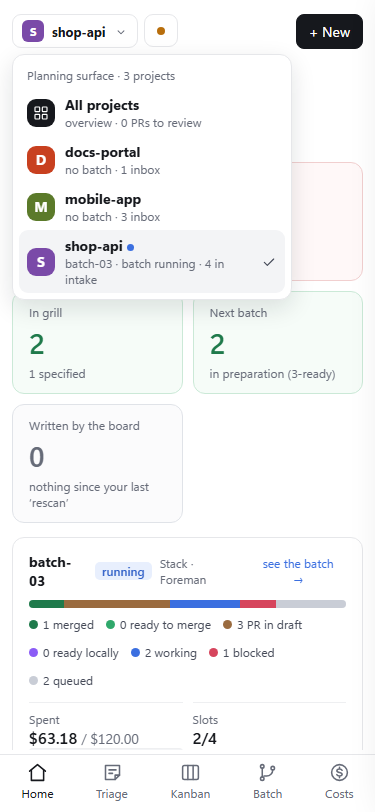
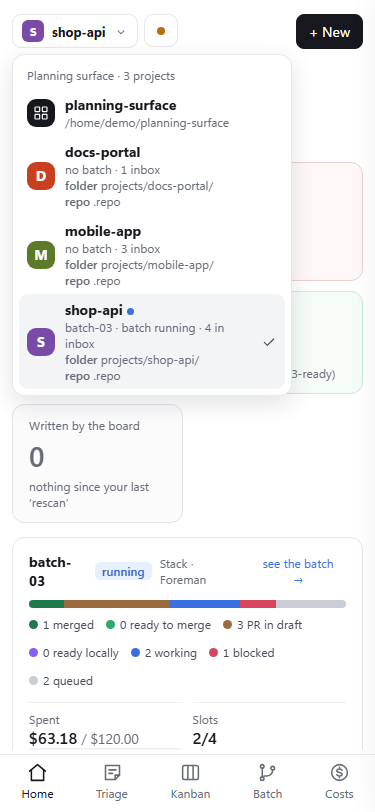
feat(board): show the planning surface in the selector and each project's folder and repository

diff --git a/skills/chantier/scripts/cli/src/chantier/board/web/js/ui/picker.js b/skills/chantier/scripts/cli/src/chantier/board/web/js/ui/picker.js
@@ -1,5 +1,5 @@
 // The project picker: the button that names the project shown, and the menu it opens. The menu
-// lists "All projects" first, then each project of the planning surface.
+// lists the planning surface first (its name and path), then each project of it.
 import { html } from '../core/dom.js';
 import { ALL } from '../core/router.js';
 import { t } from '../model/words.js';
@@ -13,7 +13,19 @@ export const canPick = (state) => projectsOf(state).length > 1;
 
 export const current = (state) => projectsOf(state).find((p) => p.id === state.project) ?? null;
 
-const totalReviews = (projects) => projects.reduce((n, p) => n + p.to_review.length, 0);
+// The surface the board serves: its path, and its name (the root folder's name).
+export const surfacePath = (state) => state.board?.served ?? '';
+export const surfaceName = (state) => {
+  const path = surfacePath(state).replace(/\/+$/, '');
+  return path.slice(path.lastIndexOf('/') + 1) || path || '…';
+};
+
+// A project's two paths, each labelled: its folder in the surface, and its repository as
+// `checkout.yml` writes it. A path too long is cut by the CSS and shown whole on hover.
+export const pathsOf = (project) =>
+  project.folder === undefined
+    ? ''
+    : html`<span class="pth" title="${project.folder}"><i>${t('project.folder')}</i> ${project.folder}</span><span class="pth" title="${project.repo}"><i>${t('project.repo')}</i> ${project.repo}</span>`;
 
 // A project's line: its batch and state, and how many items wait in its intake.
 export function lineOf(project) {
@@ -26,15 +38,13 @@ export function lineOf(project) {
 export function trigger(state, cls) {
   const all = state.project === ALL;
   const project = current(state);
-  const name = all ? t('project.all') : (project?.id ?? '…');
+  const name = all ? surfaceName(state) : (project?.id ?? '…');
   const sub = all
-    ? t('project.all_sub', { n: totalReviews(projectsOf(state)) })
-    : project
-      ? lineOf(project)
-      : '';
+    ? html`<small class="pth sur" title="${surfacePath(state)}">${surfacePath(state)}</small><small class="sur">${t('project.head', { n: projectsOf(state).length })}</small>`
+    : html`<small>${project ? lineOf(project) : ''}</small>`;
   const caret = canPick(state) ? html`<span class="car">${icon('chev')}</span>` : '';
   const face = all ? html`<span class="mark all">${icon('overview')}</span>` : mark(name);
-  const body = html`${face}<span><b>${name}</b><small>${sub}</small></span>${caret}`;
+  const body = html`${face}<span class="who"><b>${name}</b>${sub}</span>${caret}`;
   if (!canPick(state)) return html`<div class="${cls}">${body}</div>`;
   return html`<button class="${cls}" type="button" data-menu="toggle" data-key="${cls}-picker" aria-haspopup="true" aria-expanded="${state.menu}" title="${t('project.change')}">${body}</button>`;
 }
@@ -43,12 +53,12 @@ export function trigger(state, cls) {
 const ok = () => html`<span class="ok">${icon('check')}</span>`;
 
 const row = (project, state) =>
-  html`<button class="row${project.id === state.project ? ' on' : ''}" type="button" data-project="${project.id}" role="menuitem">${mark(project.id)}<span><b>${project.id}</b>${project.running ? live() : ''}<small>${lineOf(project)}</small></span>${project.id === state.project ? ok() : ''}</button>`;
+  html`<button class="row${project.id === state.project ? ' on' : ''}" type="button" data-project="${project.id}" role="menuitem">${mark(project.id)}<span class="who"><b>${project.id}</b>${project.running ? live() : ''}<small>${lineOf(project)}</small>${pathsOf(project)}</span>${project.id === state.project ? ok() : ''}</button>`;
 
 // The open menu, or nothing.
 export function menu(state) {
   if (!state.menu || !canPick(state)) return '';
   const projects = projectsOf(state);
-  const all = html`<button class="row${state.project === ALL ? ' on' : ''}" type="button" data-project="${ALL}" role="menuitem"><span class="mark all">${icon('overview')}</span><span><b>${t('project.all')}</b><small>${t('project.all_sub', { n: totalReviews(projects) })}</small></span>${state.project === ALL ? ok() : ''}</button>`;
+  const all = html`<button class="row${state.project === ALL ? ' on' : ''}" type="button" data-project="${ALL}" role="menuitem"><span class="mark all">${icon('overview')}</span><span class="who"><b>${surfaceName(state)}</b><small class="pth" title="${surfacePath(state)}">${surfacePath(state)}</small></span>${state.project === ALL ? ok() : ''}</button>`;
   return html`<div class="menu" role="menu"><div class="cap">${t('project.head', { n: projects.length })}</div>${all}${projects.map((p) => row(p, state))}</div>`;
 }

diff --git a/skills/chantier/scripts/cli/src/chantier/board/web/js/views/overview.js b/skills/chantier/scripts/cli/src/chantier/board/web/js/views/overview.js
@@ -1,4 +1,4 @@
-// The Overview view (All projects): one line per project of the planning surface, a table on a
+// The Overview view (the surface): one line per project of the planning surface, a table on a
 // desktop and cards on a phone. A click on a line opens the project; a CR link opens its PR only.
 //   render(state) returns the view's markup; mount(root, state) returns a cleanup.
 
@@ -6,7 +6,7 @@ import { delegate, html } from '../core/dom.js';
 import { age, safeUrl, usd } from '../core/format.js';
 import { t } from '../model/words.js';
 import { empty, live, mark, meter } from '../ui/parts.js';
-import { projectsOf } from '../ui/picker.js';
+import { pathsOf, projectsOf } from '../ui/picker.js';
 
 const none = '—';
 
@@ -43,7 +43,7 @@ const dataOf = (p, now) => {
 };
 
 const row = (p, now) =>
-  html`<tr data-project="${p.id}" tabindex="0" data-key="row-${p.id}"><td class="who">${mark(p.id)}<b>${p.id}</b>${p.running ? live() : ''}</td><td>${batchOf(p)}</td><td class="num">${workingOf(p)}</td><td>${p.to_review.length ? p.to_review.map(prLink) : none}</td><td>${progressOf(p)}</td><td class="num">${spentOf(p)}</td><td class="num">${p.inbox} · ${p.backlog}</td><td class="mut">${dataOf(p, now)}</td></tr>`;
+  html`<tr data-project="${p.id}" tabindex="0" data-key="row-${p.id}"><td class="who">${mark(p.id)}<div class="wtx"><div class="wnm"><b>${p.id}</b>${p.running ? live() : ''}</div>${pathsOf(p)}</div></td><td>${batchOf(p)}</td><td class="num">${workingOf(p)}</td><td>${p.to_review.length ? p.to_review.map(prLink) : none}</td><td>${progressOf(p)}</td><td class="num">${spentOf(p)}</td><td class="num">${p.inbox} · ${p.backlog}</td><td class="mut">${dataOf(p, now)}</td></tr>`;
 
 const head = ['project', 'batch', 'working', 'review', 'progress', 'spent', 'intake', 'data'].map(
   (k) =>
@@ -67,7 +67,7 @@ const sums = (p) => [
 ];
 
 const card = (p) =>
-  html`<div class="apc ${tintOf(p)}" data-project="${p.id}" tabindex="0" data-key="card-${p.id}"><div class="apt">${mark(p.id)}<b>${p.id}</b>${p.running ? live() : ''}<span class="mut">${p.batch ? p.batch.id : t('project.no_batch')}</span></div><div class="aps">${sums(p).map((s) => html`<span>${s}</span>`)}</div></div>`;
+  html`<div class="apc ${tintOf(p)}" data-project="${p.id}" tabindex="0" data-key="card-${p.id}"><div class="apt">${mark(p.id)}<b>${p.id}</b>${p.running ? live() : ''}<span class="mut">${p.batch ? p.batch.id : t('project.no_batch')}</span></div><div class="apth">${pathsOf(p)}</div><div class="aps">${sums(p).map((s) => html`<span>${s}</span>`)}</div></div>`;
 
 export function render(state) {
   const projects = projectsOf(state);

diff --git a/skills/chantier/scripts/cli/src/chantier/board/web/js/ui/header.js b/skills/chantier/scripts/cli/src/chantier/board/web/js/ui/header.js
@@ -4,12 +4,12 @@ import { ALL } from '../core/router.js';
 import { grillItems, handedCrs, inboxItems, progressCrs } from '../model/columns.js';
 import { t, tn } from '../model/words.js';
 import { entry } from '../views/registry.js';
-import { projectsOf } from './picker.js';
+import { projectsOf, surfaceName } from './picker.js';
 
 const figure = (n, word) => html`<span><b>${n}</b> ${t(word)}</span>`;
 const counted = (n, word) => html`<span><b>${n}</b> ${tn(word, n)}</span>`;
 
-// The figures of the whole surface, on All projects.
+// The figures of the whole surface, on the overview.
 function overall(state) {
   const projects = projectsOf(state);
   const sum = (pick) => projects.reduce((n, p) => n + pick(p), 0);
@@ -51,6 +51,7 @@ export function stats(state) {
   return state.data ? of(state.data) : t('stats.loading');
 }
 
-export const title = (state) => t(state.project === ALL ? 'nav.overview' : entry(state.view).word);
+export const title = (state) =>
+  state.project === ALL ? surfaceName(state) : t(entry(state.view).word);
 
 export const notice = (state) => (state.denied ? t('notice.key') : '');

diff --git a/skills/chantier/scripts/cli/src/chantier/board/web/css/paths.css b/skills/chantier/scripts/cli/src/chantier/board/web/css/paths.css
@@ -1,0 +1,48 @@
+/* The picker's text and the paths of a project's line: they shrink, and a path too long for its place is cut with an ellipsis. */
+.ws .who,
+.menu .who {
+  flex: 1;
+  min-width: 0;
+}
+
+.ws .who > *,
+.menu .who > b {
+  overflow: hidden;
+  text-overflow: ellipsis;
+  white-space: nowrap;
+}
+
+.ws .mark,
+.menu .mark {
+  flex: none;
+}
+
+.pth {
+  display: block;
+  overflow: hidden;
+  color: var(--ink3);
+  font-size: var(--text-small);
+  font-weight: 400;
+  text-overflow: ellipsis;
+  white-space: nowrap;
+}
+
+.pth i {
+  font-style: normal;
+  font-weight: 600;
+}
+
+/* the phone's button hides its small lines; the surface's path and count stay */
+.pbtn .who {
+  min-width: 0;
+}
+
+.pbtn .who > * {
+  overflow: hidden;
+  text-overflow: ellipsis;
+  white-space: nowrap;
+}
+
+.pbtn small.sur {
+  display: block;
+}

diff --git a/skills/chantier/scripts/cli/src/chantier/board/web/js/i18n/fr.js b/skills/chantier/scripts/cli/src/chantier/board/web/js/i18n/fr.js
@@ -16,8 +16,8 @@ export default {
   'nav.overview': 'Tous les projets',
   'project.change': 'Changer de projet',
   'project.head': 'Surface de planification · {n} projets',
-  'project.all': 'Tous les projets',
-  'project.all_sub': "vue d'ensemble · {n} PR à revoir",
+  'project.folder': 'dossier',
+  'project.repo': 'repo',
   'project.line': '{batch} · {state} · {n} en inbox',
   'project.no_batch': 'pas de batch',
   'project.running': 'batch en cours',

diff --git a/skills/chantier/scripts/cli/src/chantier/board/web/css/views/overview.css b/skills/chantier/scripts/cli/src/chantier/board/web/css/views/overview.css
@@ -38,7 +38,29 @@
   gap: 9px;
 }
 
+/* the paths never widen the first column: they take the width the name gives, then are cut */
+.overview .wtx {
+  flex: 1;
+  min-width: 0;
+}
+
+.overview .wnm {
+  display: flex;
+  align-items: center;
+  gap: 9px;
+}
+
+.overview .wtx .pth {
+  width: 0;
+  min-width: 100%;
+}
+
+.overview .apth {
+  margin-top: 4px;
+}
+
 .overview .who .mark {
+  flex: none;
   width: 26px;
   height: 26px;
   border-radius: 7px;

diff --git a/skills/chantier/scripts/cli/src/chantier/board/web/js/i18n/en.js b/skills/chantier/scripts/cli/src/chantier/board/web/js/i18n/en.js
@@ -16,8 +16,8 @@ export default {
   'nav.overview': 'All projects',
   'project.change': 'Change project',
   'project.head': 'Planning surface · {n} projects',
-  'project.all': 'All projects',
-  'project.all_sub': 'overview · {n} PRs to review',
+  'project.folder': 'folder',
+  'project.repo': 'repo',
   'project.line': '{batch} · {state} · {n} in inbox',
   'project.no_batch': 'no batch',
   'project.running': 'batch running',

diff --git a/skills/chantier/scripts/cli/src/chantier/board/web/index.html b/skills/chantier/scripts/cli/src/chantier/board/web/index.html
@@ -8,6 +8,7 @@
     <link rel="stylesheet" href="css/tokens.css" />
     <link rel="stylesheet" href="css/base.css" />
     <link rel="stylesheet" href="css/shell.css" />
+    <link rel="stylesheet" href="css/paths.css" />
     <link rel="stylesheet" href="css/components.css" />
     <link rel="stylesheet" href="css/widgets.css" />
     <link rel="stylesheet" href="css/panel.css" />

diff --git a/skills/chantier/scripts/cli/tests/test_board.py b/skills/chantier/scripts/cli/tests/test_board.py
@@ -15,14 +15,19 @@ import tomllib
 import urllib.error
 from pathlib import Path
 from types import SimpleNamespace
+from typing import Any
 
 import pytest
 from batch_helpers import prepared
 from conftest import Chantier
 
 from chantier.autosync.site import AutosyncSite
-from chantier.board import address, autosync_tool
+from chantier.board import address, autosync_tool, routes
+from chantier.board.context import Context, Request
 from chantier.board.guard import NEEDS_KEY
+from chantier.board.key import KeyFile
+from chantier.board.projects import open_projects
+from chantier.board.seats import Seats
 from chantier.core.errors import EXIT_EXTERNAL
 
 CLI = Path(__file__).resolve().parents[1]
@@ -268,3 +273,48 @@ def test_the_probe_tells_a_board_behind_another_key_from_any_other_answer(
 
     monkeypatch.setattr(address, "_call", call)
     assert address.probe("127.0.0.1", 1, "k") == expected
+
+
+def _git_init(folder: Path) -> None:
+    folder.mkdir(parents=True, exist_ok=True)
+    subprocess.run(["git", "init", "-q", str(folder)], check=True)
+
+
+def _board_payload(root: Path, monkeypatch: pytest.MonkeyPatch) -> dict[str, Any]:
+    monkeypatch.setenv("CHANTIER_ROOT", str(root))
+    monkeypatch.chdir(root)
+    projects = open_projects()
+    ctx = Context(projects, KeyFile(root / "key.json"), Seats(projects), "0", lambda: None)
+    body: dict[str, Any] = json.loads(routes.board(ctx, Request("GET", "/api/board", {}, {})).body)
+    return body
+
+
+def test_the_board_gives_a_surface_its_root_and_each_project_its_two_paths(
+    tmp_path: Path, monkeypatch: pytest.MonkeyPatch
+) -> None:
+    surface = tmp_path / "plans"
+    _git_init(surface)
+    for name in ("alpha", "beta"):
+        (surface / "projects" / name / "changes").mkdir(parents=True)
+    (surface / "projects" / "alpha" / "checkout.yml").write_text(
+        "repo: ../../../code/  # as written\n", encoding="utf-8"
+    )
+    got = _board_payload(surface, monkeypatch)
+    assert got["surface"] is True
+    assert got["served"] == surface.resolve().as_posix()
+    paths = {p["id"]: (p["folder"], p["repo"]) for p in got["projects"]}
+    assert paths == {
+        "alpha": ("projects/alpha/", "../../../code/"),
+        "beta": ("projects/beta/", ".repo"),
+    }
+
+
+def test_the_board_adds_no_path_to_an_in_project_folder(
+    tmp_path: Path, monkeypatch: pytest.MonkeyPatch
+) -> None:
+    _git_init(tmp_path / "solo")
+    (tmp_path / "solo" / ".agents" / "changes").mkdir(parents=True)
+    got = _board_payload(tmp_path / "solo", monkeypatch)
+    assert got["surface"] is False
+    (line,) = got["projects"]
+    assert "folder" not in line and "repo" not in line

diff --git a/scripts/docs_screenshots.py b/scripts/docs_screenshots.py
@@ -23,13 +23,14 @@ import tempfile
 import time
 from pathlib import Path
 
-from playwright.sync_api import Page, sync_playwright
+from playwright.sync_api import Page, Route, sync_playwright
 
 ROOT = Path(__file__).resolve().parent.parent
 DEMO = ROOT / "docs" / "demo"
 OUT = ROOT / "docs" / "web-board"
 CLOCK = "2026-06-18T10:30:00Z"
 SIZES = {"pc": {"width": 1400, "height": 860}, "phone": {"width": 375, "height": 812}}
+SURFACE_SHOWN = "/home/demo/planning-surface"  # the surface's name and path in the pictures
 INCIDENT = "staged-0123456789abcdef0123"
 
 
@@ -129,6 +130,16 @@ def shot(page: Page, name: str, size: str) -> None:
     print(f"wrote docs/web-board/{name}-{size}.png")
 
 
+def fix_surface_path(route: Route) -> None:
+    """The board shows the surface's path, a temporary folder of this machine: the pictures show
+    this made-up path instead, the same on every run and revealing nothing of the machine. Only
+    `served` of the board's answer is replaced; the projects' paths are the demo's own."""
+    response = route.fetch()
+    body = response.json()
+    body["served"] = SURFACE_SHOWN
+    route.fulfill(response=response, json=body)
+
+
 def capture(url: str) -> None:
     with sync_playwright() as pw:
         browser = pw.chromium.launch()
@@ -140,6 +151,7 @@ def capture(url: str) -> None:
                     is_mobile=size == "phone", has_touch=size == "phone",
                 )
                 ctx.clock.set_fixed_time("2026-06-18T10:30:00Z")
+                ctx.route("**/api/board*", fix_surface_path)
                 page = ctx.new_page()
                 views(page, url, size)
                 ctx.close()

diff --git a/skills/chantier/scripts/cli/src/chantier/board/state.py b/skills/chantier/scripts/cli/src/chantier/board/state.py
@@ -23,7 +23,7 @@ from chantier.core.records import (
     read_batch_json,
     read_events,
 )
-from chantier.core.repo import RECORDS, Repo
+from chantier.core.repo import RECORDS, Repo, read_keyed
 from chantier.core.seat import read_seat
 from chantier.lifecycle.backlog import next_batch
 from chantier.lifecycle.stages import stage_layout
@@ -156,6 +156,16 @@ def project_state(
 
 def _entry(c: dict[str, Any]) -> dict[str, Any]:
     return {"cr": c["cr"], "title": c["title"], "pr": c["pr"]}
+
+
+def project_paths(repo: Repo) -> dict[str, str]:
+    """Where a surface's project is declared: its folder in the surface (`projects/<name>/`) and
+    its `repo:` as `checkout.yml` writes it (`.repo` when it has none). In-project: nothing."""
+    if repo.project_dir is None or repo.surface is None:
+        return {}
+    folder = repo.project_dir.relative_to(repo.surface).as_posix() + "/"
+    written = read_keyed(repo.project_dir / "checkout.yml").get("repo") or ".repo"
+    return {"folder": folder, "repo": written}
 
 
 def project_line(project_id: str, state: dict[str, Any]) -> dict[str, Any]:

diff --git a/skills/chantier/scripts/cli/src/chantier/board/routes.py b/skills/chantier/scripts/cli/src/chantier/board/routes.py
@@ -12,7 +12,7 @@ from chantier.board.context import Context, Request
 from chantier.board.fingerprint import fingerprint
 from chantier.board.projects import Project
 from chantier.board.reply import Reply, as_json, matches, text
-from chantier.board.state import project_line, project_state
+from chantier.board.state import project_line, project_paths, project_state
 from chantier.core import clock
 from chantier.core.errors import ChantierError
 
@@ -53,7 +53,10 @@ def _unknown() -> Reply:
 
 def board(ctx: Context, req: Request) -> Reply:
     ctx.projects.refresh()
-    lines = [project_line(p.id, _state_of(ctx, p, ask=False)[0]) for p in ctx.projects.all()]
+    lines = [
+        {**project_line(p.id, _state_of(ctx, p, ask=False)[0]), **project_paths(p.repo)}
+        for p in ctx.projects.all()
+    ]
     return as_json(
         {
             "board": True,
